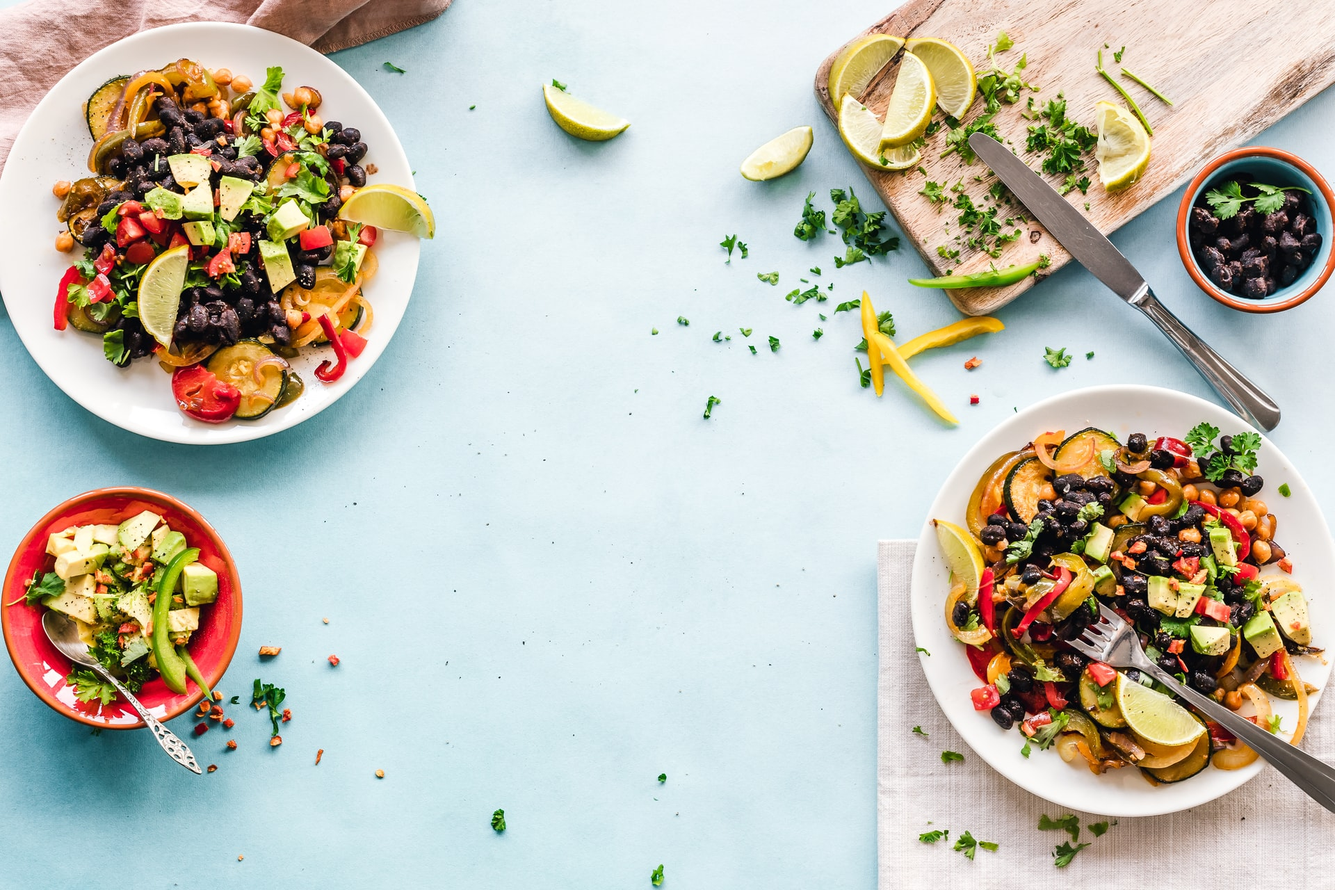
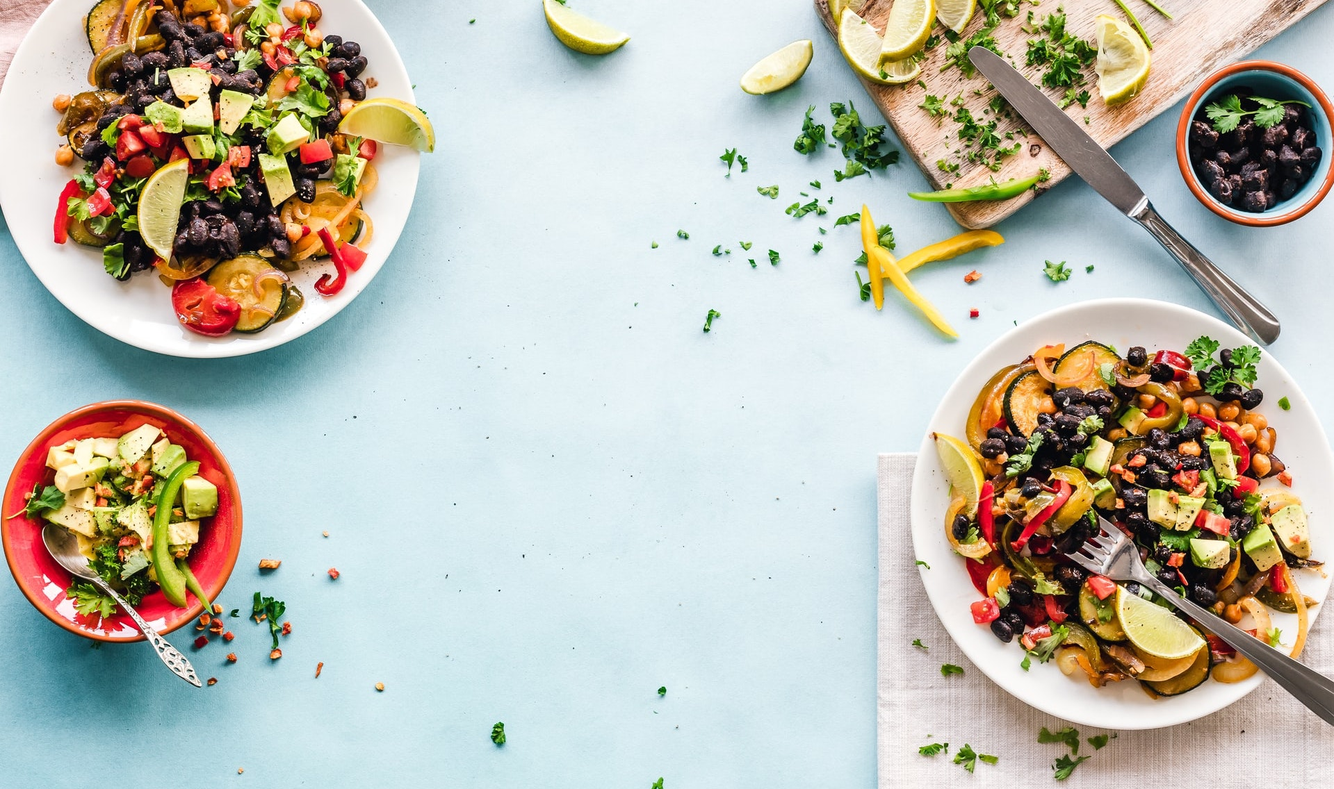
fixed header

diff --git a/app.html b/app.html
@@ -23,7 +23,7 @@
         </div>
 
         <div class="headerimg">
-            <img class="headerimage" src="img/headerimg.jpg" alt="Header image. Image of black bean fajitas.">
+            <img class="headerimage" src="img/headerBIG2.jpg" alt="Header image. Image of black bean fajitas.">
             <!--Figure 4. Black Bean Fajitas (Olsson, E., 2018).-->
         </div>
         

diff --git a/solution.html b/solution.html
@@ -23,7 +23,7 @@
         </div>
         
         <div class="headerimg">
-            <img class="headerimage" src="img/headerimg.jpg" alt="Header image. Image of black bean fajitas.">
+            <img class="headerimage" src="img/headerBIG2.jpg" alt="Header image. Image of black bean fajitas.">
             <!--Figure 4. Black Bean Fajitas (Olsson, E., 2018).-->
         </div>
 

diff --git a/recipes.html b/recipes.html
@@ -24,7 +24,7 @@
         </div>
 
         <div class="headerimg">
-            <img class="headerimage" src="img/headerimg.jpg" alt="Header image. Image of black bean fajitas.">
+            <img class="headerimage" src="img/headerBIG2.jpg" alt="Header image. Image of black bean fajitas.">
             <!--Figure 4. Black Bean Fajitas (Olsson, E., 2018).-->
         </div>
 

diff --git a/sources.html b/sources.html
@@ -23,7 +23,7 @@
         </div>
 
         <div class="headerimg">
-            <img class="headerimage" src="img/headerimg.jpg" alt="Header image. Image of black bean fajitas.">
+            <img class="headerimage" src="img/headerBIG2.jpg" alt="Header image. Image of black bean fajitas.">
             <!--Figure 4. Black Bean Fajitas (Olsson, E., 2018).-->
         </div>
 

diff --git a/styles/sources_stylesheet.css b/styles/sources_stylesheet.css
@@ -70,12 +70,9 @@ span {
 }
 
 .headerimg {
-    background-size: cover;
-    text-align: center;
-    height: 100px;
+    background-color: #ffffff;
+    height: 200px;
     width: 100%;
-    background-repeat: no-repeat;
-    padding: 0px;
     overflow: hidden;
     margin-bottom: 40px;
     position: relative;

diff --git a/styles/app_stylesheet.css b/styles/app_stylesheet.css
@@ -59,12 +59,9 @@ hr {
 }
 
 .headerimg {
-    background-size: cover;
-    text-align: center;
-    height: 100px;
+    background-color: #ffffff;
+    height: 200px;
     width: 100%;
-    background-repeat: no-repeat;
-    padding: 0px;
     overflow: hidden;
     margin-bottom: 40px;
     position: relative;

diff --git a/styles/solution_stylesheet.css b/styles/solution_stylesheet.css
@@ -28,12 +28,9 @@
 }
 
 .headerimg {
-    background-size: cover;
-    text-align: center;
-    height: 100px;
+    background-color: #ffffff;
+    height: 200px;
     width: 100%;
-    background-repeat: no-repeat;
-    padding: 0px;
     overflow: hidden;
     margin-bottom: 40px;
     position: relative;

diff --git a/styles/recipes_stylesheet.css b/styles/recipes_stylesheet.css
@@ -1,10 +1,7 @@
 .headerimg {
-    background-size: cover;
-    text-align: center;
-    height: 100px;
+    background-color: #ffffff;
+    height: 200px;
     width: 100%;
-    background-repeat: no-repeat;
-    padding: 0px;
     overflow: hidden;
     margin-bottom: 40px;
     position: relative;
